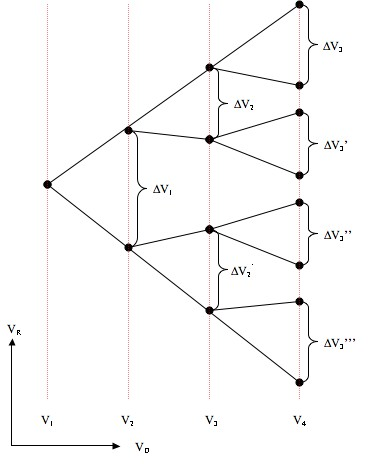
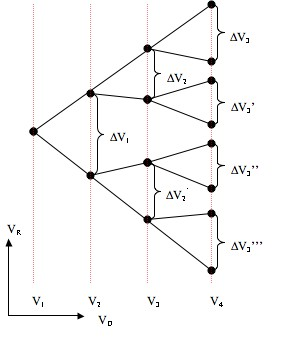
update2

diff --git a/paper.tex b/paper.tex
@@ -118,7 +118,7 @@
 	
 	\begin{figure}
 		\centering
-		\includegraphics{Pics/Bifurcation Diagram.png}
+		\includegraphics{Pics/Bifurcation Diagram.jpg}
 		\label{fig: Calculating Feigenbaum ratios}
 		\caption{Calculating Feigenbaum ratios}
 	\end{figure}
